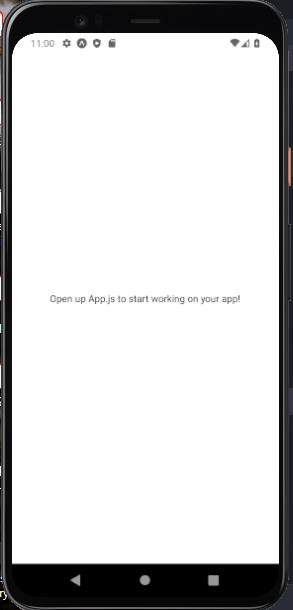
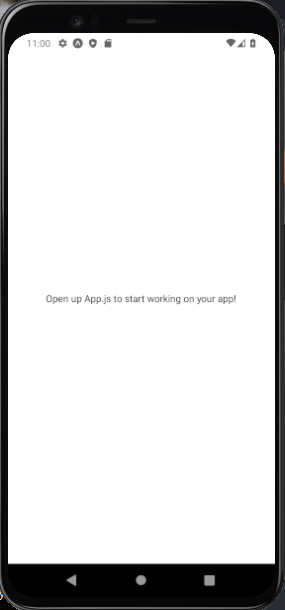
updates README file and crops the screenshot of emulator

diff --git a/README.md b/README.md
@@ -2,12 +2,13 @@
 
 ## Homework 1
 
-## Initialized a project with Expo and launched it on a mobile device and android emulator using the Expo client and Android Studio.
+## Initialized a project with Expo and launched it on a mobile device and android emulator using the Expo client and Android Studio. &#x1F680
 
-https://ibb.co/5WdLypv - Project running on an iPhone
+&#x1F34E https://ibb.co/5WdLypv - Project running on an iPhone
 <br>
-https://ibb.co/fXYjxRs - Project running on an Android emulator
+&#x1F4F1 https://ibb.co/fXYjxRs - Project running on an Android emulator
 
-<img src="./assets/iphone.jpg" alt="project running on a iPhone" width="300" height="auto">
-
-<img src="./assets/android-emulator.png" alt="project running on a Android emulator" width="300" height="auto">
+<div style="display:flex; justify-content:center; gap:15px;">
+  <img src="./assets/iphone.jpg" alt="project running on a iPhone" width="300" height="auto">
+  <img src="./assets/android-emulator.png" alt="project running on a Android emulator" width="300" height="auto">
+</div>
